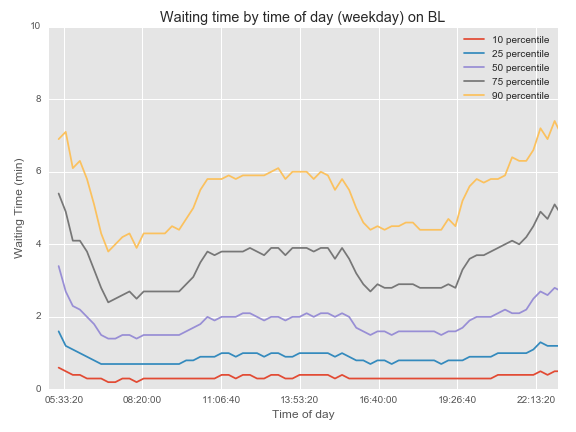
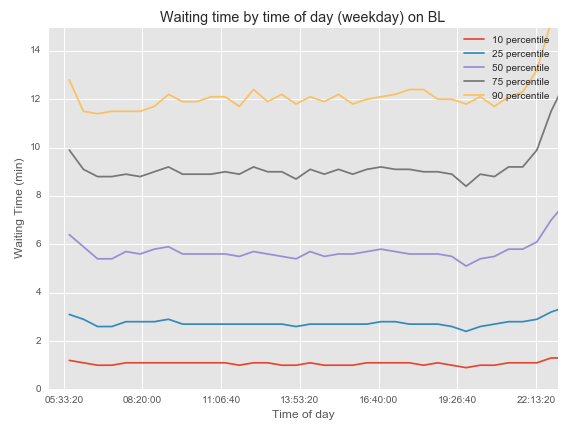
Line code fix

diff --git a/content/blog/metro-math/post.md b/content/blog/metro-math/post.md
@@ -264,7 +264,27 @@ Now it looks like something like this.
 The first thing I wanted to do was to be able to graphically display the trip information, because that was information that I know had.
 After looking at a few different ones, I settled on the red line on August 9th.
 
-[![red_line trips plot]({filename}images/RD_2016-08-09.png)]({filename}images/RD_2016-08-09.png)
+<button type="button" class="btn btn-primary btn-sm string-button" src="{filename}images/BL_2016-08-09.png" onclick="changeStr(this);">BL</button>
+<button type="button" class="btn btn-primary btn-sm string-button" src="{filename}images/GR_2016-08-09.png" onclick="changeStr(this);">GR</button>
+<button type="button" class="btn btn-primary btn-sm string-button" src="{filename}images/RD_2016-08-09.png" onclick="changeStr(this);">RD</button>
+<button type="button" class="btn btn-primary btn-sm string-button" src="{filename}images/OR_2016-08-09.png" onclick="changeStr(this);">OR</button>
+<button type="button" class="btn btn-primary btn-sm string-button" src="{filename}images/YL_2016-08-09.png" onclick="changeStr(this);">YL</button>
+<button type="button" class="btn btn-primary btn-sm string-button" src="{filename}images/SV_2016-08-09.png" onclick="changeStr(this);">SV</button>
+<div class="container-fluid">
+<div class="row">
+<div class="col-md-12 thumb">
+<a id="string-link" href="{filename}images/RD_2016-08-09.png" ><img id="string-plot" class="img-responsive center-block" src="{filename}images/RD_2016-08-09.png"></img></a>
+</div>
+</div>
+</div>
+
+<script type="text/javascript">
+function changeStr(element){
+var link = element.getAttribute("src");
+document.getElementById("string-link").href = link
+document.getElementById("string-plot").src = link
+}
+</script>
 
 As you can see, the red line between Shady Grove and Twin Brook was kind of fucked that day.
 You'll also note the lower density of the lines in the middle of the day.
@@ -281,15 +301,43 @@ We can also, like Erik, plot the distribution of headways and the distribution o
 
 <div class="container-fluid">
 <div class="row">
+<button type="button" class="btn btn-primary btn-sm string-button" src="{filename}images/BL_headways.png" onclick="changeHead(this);">BL</button>
+<button type="button" class="btn btn-primary btn-sm string-button" src="{filename}images/GR_headways.png" onclick="changeHead(this);">GR</button>
+<button type="button" class="btn btn-primary btn-sm string-button" src="{filename}images/RD_headways.png" onclick="changeHead(this);">RD</button>
+<button type="button" class="btn btn-primary btn-sm string-button" src="{filename}images/OR_headways.png" onclick="changeHead(this);">OR</button>
+<button type="button" class="btn btn-primary btn-sm string-button" src="{filename}images/YL_headways.png" onclick="changeHead(this);">YL</button>
+<button type="button" class="btn btn-primary btn-sm string-button" src="{filename}images/SV_headways.png" onclick="changeHead(this);">SV</button>
 <div class="col-md-12 thumb">
-<a href="{filename}images/BL_headways.png" ><img class="img-responsive center-block" src="{filename}images/BL_headways.png"></img></a>
+<a id="head-link" href="{filename}images/BL_headways.png" ><img id="head-plot" class="img-responsive center-block" src="{filename}images/BL_headways.png"></img></a>
 
 </div>
+<button type="button" class="btn btn-primary btn-sm string-button" src="{filename}images/BL_wait_times.png" onclick="changeWait(this);">BL</button>
+<button type="button" class="btn btn-primary btn-sm string-button" src="{filename}images/GR_wait_times.png" onclick="changeWait(this);">GR</button>
+<button type="button" class="btn btn-primary btn-sm string-button" src="{filename}images/RD_wait_times.png" onclick="changeWait(this);">RD</button>
+<button type="button" class="btn btn-primary btn-sm string-button" src="{filename}images/OR_wait_times.png" onclick="changeWait(this);">OR</button>
+<button type="button" class="btn btn-primary btn-sm string-button" src="{filename}images/YL_wait_times.png" onclick="changeWait(this);">YL</button>
+<button type="button" class="btn btn-primary btn-sm string-button" src="{filename}images/SV_wait_times.png" onclick="changeWait(this);">SV</button>
 <div class="col-md-12 thumb">
-<a href="{filename}images/BL_wait_times.png" ><img class="img-responsive center-block" src="{filename}images/BL_wait_times.png"></img></a>
+<a id="wait-link" href="{filename}images/BL_wait_times.png" ><img id="wait-plot" class="img-responsive center-block" src="{filename}images/BL_wait_times.png"></img></a>
 </div>
 </div>
 </div>
+
+<script type="text/javascript">
+function changeHead(element){
+var head_link = element.getAttribute("src");
+document.getElementById("head-link").href = head_link
+document.getElementById("head-plot").src = head_link
+}
+</script>
+
+<script type="text/javascript">
+function changeWait(element){
+var head_link = element.getAttribute("src");
+document.getElementById("wait-link").href = head_link
+document.getElementById("wait-plot").src = head_link
+}
+</script>
 
 Here I've looked at trip times between 7am and 7pm.
 And keep in mind that in some cases there may be several lines that work for you.
@@ -327,15 +375,43 @@ The x-axes have different ranges because the trains run during different hours d
 
 <div class="container-fluid">
 <div class="row">
+<button type="button" class="btn btn-primary btn-sm string-button" src="{filename}images/BL_weekday_waiting_by_time.png" onclick="changeWT1(this);">BL</button>
+<button type="button" class="btn btn-primary btn-sm string-button" src="{filename}images/GR_weekday_waiting_by_time.png" onclick="changeWT1(this);">GR</button>
+<button type="button" class="btn btn-primary btn-sm string-button" src="{filename}images/RD_weekday_waiting_by_time.png" onclick="changeWT1(this);">RD</button>
+<button type="button" class="btn btn-primary btn-sm string-button" src="{filename}images/OR_weekday_waiting_by_time.png" onclick="changeWT1(this);">OR</button>
+<button type="button" class="btn btn-primary btn-sm string-button" src="{filename}images/YL_weekday_waiting_by_time.png" onclick="changeWT1(this);">YL</button>
+<button type="button" class="btn btn-primary btn-sm string-button" src="{filename}images/SV_weekday_waiting_by_time.png" onclick="changeWT1(this);">SV</button>
 <div class="col-md-12 thumb">
-<a href="{filename}images/RD_weekday_waiting_by_time.png" ><img class="img-responsive center-block" src="{filename}images/RD_weekday_waiting_by_time.png"></img></a>
+<a id="WT1-link" href="{filename}images/RD_weekday_waiting_by_time.png" ><img id="WT1-img" class="img-responsive center-block" src="{filename}images/RD_weekday_waiting_by_time.png"></img></a>
 
 </div>
+<button type="button" class="btn btn-primary btn-sm string-button" src="{filename}images/BL_weekend_waiting_by_time.png" onclick="changeWT2(this);">BL</button>
+<button type="button" class="btn btn-primary btn-sm string-button" src="{filename}images/GR_weekend_waiting_by_time.png" onclick="changeWT2(this);">GR</button>
+<button type="button" class="btn btn-primary btn-sm string-button" src="{filename}images/RD_weekend_waiting_by_time.png" onclick="changeWT2(this);">RD</button>
+<button type="button" class="btn btn-primary btn-sm string-button" src="{filename}images/OR_weekend_waiting_by_time.png" onclick="changeWT2(this);">OR</button>
+<button type="button" class="btn btn-primary btn-sm string-button" src="{filename}images/YL_weekend_waiting_by_time.png" onclick="changeWT2(this);">YL</button>
+<button type="button" class="btn btn-primary btn-sm string-button" src="{filename}images/SV_weekend_waiting_by_time.png" onclick="changeWT2(this);">SV</button>
 <div class="col-md-12 thumb">
-<a href="{filename}images/RD_weekend_waiting_by_time.png" ><img class="img-responsive center-block" src="{filename}images/RD_weekend_waiting_by_time.png"></img></a>
+<a id="WT2-link" href="{filename}images/RD_weekend_waiting_by_time.png" ><img id="WT2-img" class="img-responsive center-block" src="{filename}images/RD_weekend_waiting_by_time.png"></img></a>
 </div>
 </div>
 </div>
+
+<script type="text/javascript">
+function changeWT1(element){
+var head_link = element.getAttribute("src");
+document.getElementById("WT1-link").href = head_link
+document.getElementById("WT1-img").src = head_link
+}
+</script>
+
+<script type="text/javascript">
+function changeWT2(element){
+var head_link = element.getAttribute("src");
+document.getElementById("WT2-link").href = head_link
+document.getElementById("WT2-img").src = head_link
+}
+</script>
 
 I'm not sure why the wait times increase early in the morning and late at night on the red line during the weekend.
 Maybe someone more familiar with the system can account for this.
